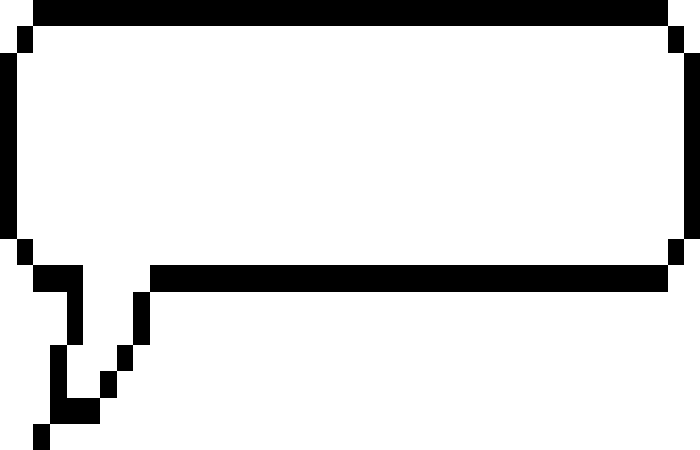
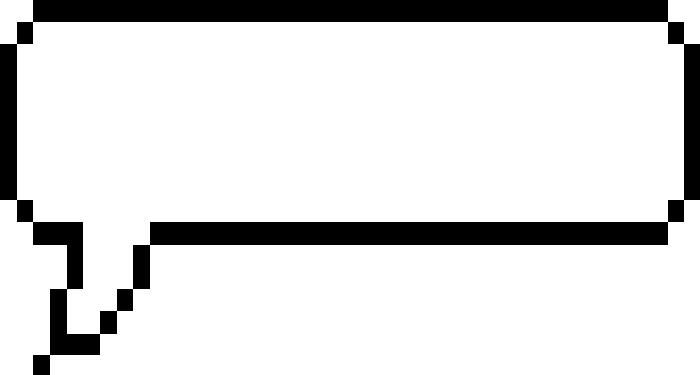
adjust balloon

diff --git a/components/Speech/styles.module.css b/components/Speech/styles.module.css
@@ -10,14 +10,14 @@
 .speechBalloon {
   background-image: url('../../public/speech-balloon.png');
   width: 700px;
-  height: 450px;
+  height: 375px;
   display: flex;
   justify-content: center;
 }
 
 .speechBalloon button {
   width: 600px;
-  height: 300px;
+  height: 250px;
   border: none;
   background-color: transparent;
   font-family: 'Press Start 2P';
